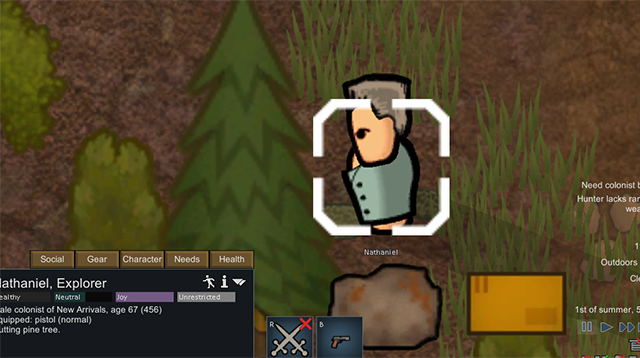
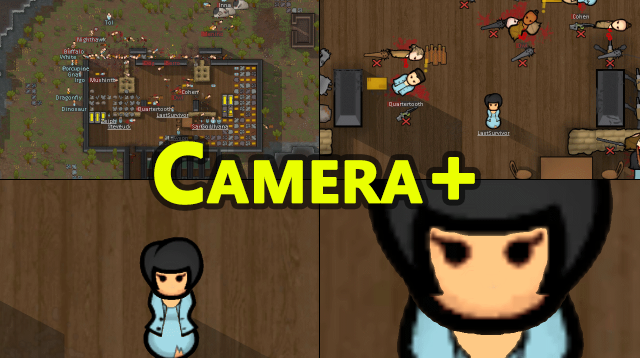
v1.0.1 fixes bug with labels not showing

diff --git a/Source/Main.cs b/Source/Main.cs
@@ -2,6 +2,10 @@
 using Harmony;
 using UnityEngine;
 using System.Reflection;
+using Harmony.ILCopying;
+using System;
+using System.Collections.Generic;
+using System.Reflection.Emit;
 
 namespace CameraPlus
 {
@@ -15,9 +19,107 @@ namespace CameraPlus
 		}
 	}
 
+	[HarmonyPatch(typeof(GenMapUI))]
+	[HarmonyPatch("DrawThingLabel")]
+	[HarmonyPatch(new Type[] { typeof(Vector2), typeof(string), typeof(Color) })]
+
+	static class GenMapUI_DrawThingLabel_Patch
+	{
+		static GameFont GetAdaptedGameFont()
+		{
+			var rootSize = Traverse.Create(Find.CameraDriver).Field("rootSize").GetValue<float>();
+			if (rootSize < 14f) return GameFont.Medium;
+			if (rootSize < 19f) return GameFont.Small;
+			return GameFont.Tiny;
+		}
+
+		class AdaptedGameFontReplacer : IILProcessor
+		{
+			bool firstInstruction = true;
+
+			public List<ILInstruction> Start(ILGenerator generator, MethodBase original)
+			{
+				return new List<ILInstruction>();
+			}
+
+			// we replace the first "GameFont.Tiny" with our "GetAdaptedGameFont()"
+			//
+			public List<ILInstruction> Process(ILInstruction instruction)
+			{
+				var result = new List<ILInstruction>();
+				if (firstInstruction && instruction.opcode == OpCodes.Ldc_I4_0)
+				{
+					var method = AccessTools.Method(typeof(GenMapUI_DrawThingLabel_Patch), "GetAdaptedGameFont");
+					var call = new ILInstruction(OpCodes.Call);
+					call.operand = method;
+					call.argument = method;
+					result.Add(call);
+				}
+				else
+					result.Add(instruction);
+
+				firstInstruction = false;
+				return result;
+			}
+
+			public List<ILInstruction> End(ILGenerator generator, MethodBase original)
+			{
+				return new List<ILInstruction>();
+			}
+		}
+
+		[HarmonyProcessors]
+		static HarmonyProcessor AdaptedGameFontReplacerPatch(MethodBase original)
+		{
+			var processor = new HarmonyProcessor();
+			processor.AddILProcessor(new AdaptedGameFontReplacer());
+			return processor;
+		}
+	}
+
+	[HarmonyPatch(typeof(CameraDriver))]
+	[HarmonyPatch("get_CurrentZoom")]
+	static class CameraDriver_get_CurrentZoom_Patch
+	{
+		class ZoomLerper : IILProcessor
+		{
+			public List<ILInstruction> Start(ILGenerator generator, MethodBase original)
+			{
+				return new List<ILInstruction>();
+			}
+
+			// Normal values: 12, 13.8, 42, 57
+			//
+			public List<ILInstruction> Process(ILInstruction instruction)
+			{
+				if (instruction.opcode == OpCodes.Ldc_R4)
+				{
+					var f = (float)instruction.operand;
+					f = GenMath.LerpDouble(12, 57, 30, 60, f);
+					instruction.operand = f;
+					instruction.argument = f;
+				}
+				return new List<ILInstruction>() { instruction };
+			}
+
+			public List<ILInstruction> End(ILGenerator generator, MethodBase original)
+			{
+				return new List<ILInstruction>();
+			}
+		}
+
+		[HarmonyProcessors]
+		static HarmonyProcessor LerpCurrentZoom(MethodBase original)
+		{
+			var processor = new HarmonyProcessor();
+			processor.AddILProcessor(new ZoomLerper());
+			return processor;
+		}
+	}
+
 	[HarmonyPatch(typeof(CameraDriver))]
 	[HarmonyPatch("ApplyPositionToGameObject")]
-	class CameraDriverPatch
+	static class CameraDriver_ApplyPositionToGameObject_Patch
 	{
 		static void Postfix(CameraDriver __instance)
 		{

diff --git a/Source/Properties/AssemblyInfo.cs b/Source/Properties/AssemblyInfo.cs
@@ -32,5 +32,5 @@ using System.Runtime.InteropServices;
 // You can specify all the values or you can default the Build and Revision Numbers 
 // by using the '*' as shown below:
 // [assembly: AssemblyVersion("1.0.*")]
-[assembly: AssemblyVersion("1.0.0.4")]
-[assembly: AssemblyFileVersion("1.0.0.4")]
+[assembly: AssemblyVersion("1.0.1.0")]
+[assembly: AssemblyFileVersion("1.0.1.0")]

diff --git a/README.md b/README.md
@@ -3,6 +3,6 @@
 A RimWorld mod to improve the zoom factor for the build-in camera.
 
 Powered by [Harmony](https://github.com/pardeike/Harmony)  
-The runtime patch library for .NET
+The runtime patch library for Unity
 
 ![Harmony](https://s24.postimg.org/58bl1rz39/logo.png)
